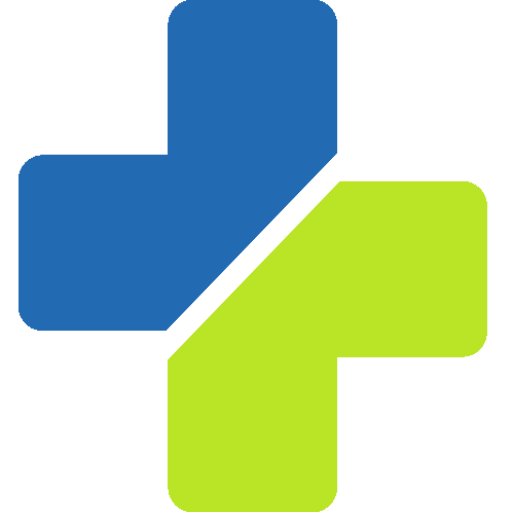
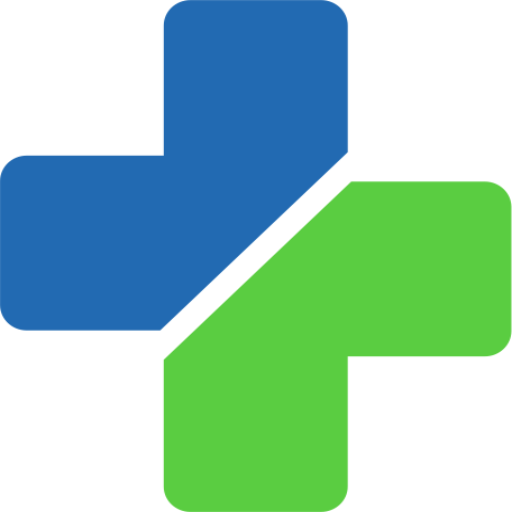
change content and added new section

diff --git a/index.html b/index.html
@@ -8,6 +8,10 @@
 	<title>Healthware | Thinkitive Technologies </title>
 	<!-- Favicon -->
 	<link rel="shortcut icon" href="images/favicon.ico" />
+	<link rel="apple-touch-icon" sizes="180x180" href="images/apple-touch-icon.png">
+	<link rel="icon" type="image/png" sizes="32x32" href="images/favicon-32x32.png">
+	<link rel="icon" type="image/png" sizes="16x16" href="images/favicon-16x16.png">
+	<link rel="manifest" href="/site.webmanifest">
 	<!-- Bootstrap CSS -->
 	<link rel="stylesheet" href="css/bootstrap.min.css">
 	<!-- REVOLUTION STYLE SHEETS -->
@@ -47,7 +51,7 @@
 				<div class="col-sm-12">
 					<nav class="navbar navbar-expand-lg navbar-light">
 						<a class="navbar-brand" href="index.html">
-							<img class="img-fluid" src="images/logo/healthware-logo.png" alt="img">
+							<img class="img-fluid" src="images/logo/healthware-logo-450x80.png" alt="img">
 						</a>
 						<button class="navbar-toggler" type="button" data-toggle="collapse"
 							data-target="#navbarSupportedContent" aria-controls="navbarSupportedContent"
@@ -161,7 +165,7 @@
 				<div id="SVGhero" class="col-lg-6 pr-lg-0 order-lg-2 order-1">
 					<!-- SVG Icon -->
 					<figure class="w-100 text-center wow zoomIn" data-wow-duration="0.6s">
-						<img class=" lazyloaded" alt="" src="images/header-bg/EHR-Main-Slider.svg">
+						<!-- <img class=" lazyloaded" alt="" src="images/header-bg/EHR-Main-Slider.svg"> -->
 					</figure>
 					<!-- End SVG Icon -->
 				</div>
@@ -346,16 +350,17 @@
 							<h2>Solutions
 								<br>
 								<span>in Revenue Cycle Health </span></h2>
-	
+
 							<!-- <p>Our script updates pricing in two modules of Meditech that don't communicate with each other. This eliminates the need for duplicate data entry.</p> -->
 						</div>
-						
+
 
 					</div>
 				</div>
 				<div class="row iq-mt-60">
 					<div class="col-sm-6 col-md-4 col-lg-4 col-xs-12">
-						<div class="color-palette card2 card-program wow fadeInUp"><a href="solution/aws-iot-solutions.html" class="">
+						<div class="color-palette card2 card-program wow fadeInUp"><a
+								href="solution/aws-iot-solutions.html" class="">
 								<h3>Revenue Cycle Health</h3>
 								<p>Lorem Ipsum is simply dummy text of the printing and typesetting industry.
 								</p>
@@ -365,7 +370,8 @@
 						</div>
 					</div>
 					<div class="col-sm-6 col-md-4 col-lg-4 col-xs-12">
-						<div class="color-palette card2 card-program wow fadeInUp"><a href="solution/thingsboard.html" class="">
+						<div class="color-palette card2 card-program wow fadeInUp"><a href="solution/thingsboard.html"
+								class="">
 								<h3>Revenue Cycle Health</h3>
 								<p>Lorem Ipsum is simply dummy text of the printing and typesetting industry.
 								</p>
@@ -375,7 +381,8 @@
 						</div>
 					</div>
 					<div class="col-sm-6 col-md-4 col-lg-4 col-xs-12">
-						<div class="color-palette card2 card-program wow fadeInUp"><a href="solution/costom-iot-solutions.html" class="">
+						<div class="color-palette card2 card-program wow fadeInUp"><a
+								href="solution/costom-iot-solutions.html" class="">
 								<h3>Custom IoT Solution
 								</h3>
 								<p>Lorem Ipsum is simply dummy text of the printing and typesetting industry.
@@ -386,7 +393,8 @@
 						</div>
 					</div>
 					<div class="col-sm-6 col-md-4 col-lg-4 col-xs-12">
-						<div class="color-palette card2 card-program wow fadeInUp"><a href="solution/azure-iot-solution.html" class="">
+						<div class="color-palette card2 card-program wow fadeInUp"><a
+								href="solution/azure-iot-solution.html" class="">
 								<h3>Revenue Cycle Health</h3>
 								<p>Lorem Ipsum is simply dummy text of the printing and typesetting industry.
 								</p>
@@ -396,7 +404,8 @@
 						</div>
 					</div>
 					<div class="col-sm-6 col-md-4 col-lg-4 col-xs-12">
-						<div class="color-palette card2 card-program wow fadeInUp"><a href="solution/kaa-iot-solution.html" class="">
+						<div class="color-palette card2 card-program wow fadeInUp"><a
+								href="solution/kaa-iot-solution.html" class="">
 								<h3>Revenue Cycle Health</h3>
 								<p>Lorem Ipsum is simply dummy text of the printing and typesetting industry.
 								</p>
@@ -406,7 +415,8 @@
 						</div>
 					</div>
 					<div class="col-sm-6 col-md-4 col-lg-4 col-xs-12">
-						<div class="color-palette card2 card-program wow fadeInUp"><a href="solution/tinyml-for-edge" class="">
+						<div class="color-palette card2 card-program wow fadeInUp"><a href="solution/tinyml-for-edge"
+								class="">
 								<h3>Revenue Cycle Health</h3>
 								<p>Lorem Ipsum is simply dummy text of the printing and typesetting industry.
 								</p>
@@ -417,7 +427,7 @@
 					</div>
 				</div>
 			</div>
-	
+
 		</section>
 		<section id="iq-feature" class="benefit_nodejs solutions-section">
 
@@ -428,16 +438,16 @@
 							<h2>Feature
 								<br>
 								<span>in Revenue Cycle Health </span></h2>
-	
+
 							<!-- <p>Our script updates pricing in two modules of Meditech that don't communicate with each other. This eliminates the need for duplicate data entry.</p> -->
 						</div>
-						
+
 
 					</div>
 
-					
+
 				</div>
-				
+
 
 				<div class="row">
 
@@ -670,7 +680,7 @@
 			</div>
 			<div class="container border-b"></div>
 		</div>
-		<section>
+		<!-- <section>
 			<div class="container">
 				<div class="row">
 					<div class="col-lg-4 col-sm-12 iq-mb-30">
@@ -765,20 +775,21 @@
 					</div>
 				</div>
 			</div>
-		</section>
-		
-		<section id="iq-service" class="service__section padding greybg pattern-1 solutions-section" style=" padding: 80px 0;">
+		</section> -->
+
+		<section id="iq-service" class="service__section padding greybg pattern-1 solutions-section"
+			style=" padding: 80px 0;">
 			<div class="container">
 				<div class="row">
 					<div class="col-lg-12">
 						<h2 class="">Offerings & Services</h2>
-						
+
 						<!-- <p class="text-center desc">Customized Solutions with Open Source Software & On Premise
 							Deployments
 						</p> -->
 					</div>
 				</div>
-			
+
 				<div class="row simple-grid simple-grid--3-6 mb-3">
 					<div class="col-12 col-sm-6 col-lg-4 simple-grid__cell">
 						<div class="simple-grid__heading mb-3">
@@ -851,18 +862,25 @@
 			</div>
 		</section>
 		<div class="divider-block dark-blue">
-			<img class="lines lazy loaded" alt="lines" src="https://capsuletech.com/wp-content/themes/capsule/images/banner-lines.svg" data-src="https://capsuletech.com/wp-content/themes/capsule/images/banner-lines.svg" data-was-processed="true"><div class="container"><div class="balance-text">Are you ready to improve patient care?</div><div>
-			<a href="/request-a-demo">Request a Demo</a></div></div></div>
+			<img class="lines lazy loaded" alt="lines"
+				src="https://capsuletech.com/wp-content/themes/capsule/images/banner-lines.svg"
+				data-src="https://capsuletech.com/wp-content/themes/capsule/images/banner-lines.svg"
+				data-was-processed="true">
+			<div class="container">
+				<div class="balance-text">Are you ready to improve patient care?</div>
+				<div>
+					<a href="/request-a-demo">Request a Demo</a></div>
+			</div>
+		</div>
 
 
-		<section class="pb-0 solutions-section" id="iq-feature">
+		<!-- <section class="pb-0 solutions-section" id="iq-feature">
 			<div class="container">
 				<div class="row justify-content-center position-relative">
 					<div class="col-lg-12">
 						<div class="pb-70">
 							<h2>How Does Sofbox Work?</h2>
-							<!-- <p>If you are planning on developing a product landing app or website,<br> take a look at
-								this beautiful-crafted</p> -->
+							
 						</div>
 					</div>
 					<div class="col-lg-6">
@@ -999,7 +1017,7 @@
 					</div>
 				</div>
 			</div>
-		</section>
+		</section> -->
 
 		<!-- <section class="count_mobilecoderz mb-5 d-none d-md-block">
 
@@ -1306,7 +1324,7 @@
 			</div>
 
 		</section> -->
-		
+
 		<section class="sofbox-gradient-bg-top" id="iq-portfolio">
 			<div class="container">
 				<div class="row justify-content-center">
@@ -1667,7 +1685,7 @@
 	</div>
 	<!-- Main Content END -->
 	<!-- Footer Start -->
-	
+
 	<footer id="iq-contact" class="iq-footer footer-shap footer-one iq-over-dark-90 position-relative">
 		<div class="container">
 			<div class="footer-top">
@@ -1684,7 +1702,7 @@
 			<div class="row">
 				<div class="col-lg-5 col-md-6 col-sm-6 ">
 					<div class="logo">
-						<a href="index.html"><img class="img-fluid mb-3" src="images/logo/healthware-white.png"
+						<a href="index.html"><img class="img-fluid mb-3" src="images/logo/healthware-logo-white.png"
 								alt="img"></a>
 						<div class="iq-font-black mt-2 text-white">
 							IoTBoard is a customizable internet of things platform. We provide customizations to it and
